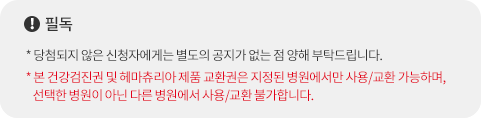
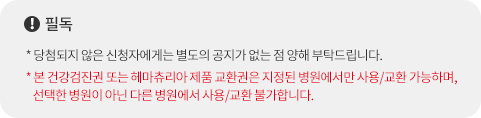
0728 수정 - 문안, 이미지, 수의사님 영상 추가

Changed region(s): [[0.2183, 0.5847, 0.9667, 0.7119]]

diff --git a/request.php b/request.php
@@ -50,7 +50,7 @@
                         </span>
                     </div>
                     <div class="subject">
-                        <b><?=$cat_info['mb_cat_name']?>의 건강검진권 신청하기</b>
+                        <b><?=$cat_info['mb_cat_name']?>의 건강 경품 신청하기</b>
                     </div>
                 </div>
                 <div class="location-selector">
@@ -176,7 +176,7 @@
                         <div class="title-block">
                             <img src="./images/project_logo.svg" alt="고양이 주치의 프로젝트" class="project-logo">
                             <p class="sub">
-                                반려묘의 더 건강한 삶을 위한<br>건강검진권과 혈뇨검출기가 신청되었습니다! 
+                                반려묘의 더 건강한 삶을 위한<br>건강 경품이 신청되었습니다! 
                             </p>
                         </div>
                         <div class="date-block">
@@ -199,11 +199,11 @@
                                 <li>
                                     <img src="./images/benefit_img_02.png" alt="혈뇨검출 체외진단기 헤마츄리아 디텍션 50명">
                                     <h5>혈뇨검출 체외진단기</h5>
-                                    <p>헤마츄리아 디텍션</p>
+                                    <p>헤마츄리아 디텍션<br> 제품 교환권</p>
                                 </li>
                             </ul>
                             <div class="noti-img">
-                                <img src="./images/section_03_notice.png" alt="필독! 당첨되지 않은 신청자에게는 별도의 공지가 없는 점 양해 부탁드립니다. 본 건강검진권은 지정된 병원에서만 사용이 가능하며, 선택한 병원이 아닌 다른 병원에서는 사용이 불가합니다.">
+                                <img src="./images/section_03_notice.png?ver=200728" alt="필독! 당첨되지 않은 신청자에게는 별도의 공지가 없는 점 양해 부탁드립니다. 본 건강검진권 또는 헤마츄리아 제품 교환권은 지정된 병원에서만 사용/교환 가능하며, 선택한 병원이 아닌 다른 병원에서는 사용/교환이 불가합니다.">
                             </div>
                         </div>
                         <button type="button" class="type-01" id="btn-complete">확인</button>

diff --git a/m/request.php b/m/request.php
@@ -26,7 +26,7 @@
                     </span>
                 </div>
                 <div class="subject">
-                    <b><?=$cat_info['mb_cat_name']?>의 건강검진권 신청하기</b>
+                    <b><?=$cat_info['mb_cat_name']?>의 건강 경품 신청하기</b>
                 </div>
             </div>
             <div class="location-selector">
@@ -136,7 +136,7 @@
                     <div class="title-block">
                         <img src="./images/project_logo.svg" alt="고양이 주치의 프로젝트" class="project-logo">
                         <p class="sub">
-                            반려묘의 더 건강한 삶을 위한<br>건강검진권과 혈뇨검출기가<br>신청되었습니다! 
+                            반려묘의 더 건강한 삶을 위한<br>건강 경품이 신청되었습니다! 
                         </p>
                     </div>
                     <div class="date-block">
@@ -159,11 +159,11 @@
                             <li>
                                 <img src="./images/benefit_img_02.png" alt="혈뇨검출 체외진단기 헤마츄리아 디텍션 50명">
                                 <h5>혈뇨검출 체외진단기</h5>
-                                <p>헤마츄리아 디텍션</p>
+                                <p>헤마츄리아 디텍션<br>제품 교환권</p>
                             </li>
                         </ul>
                         <div class="noti-img">
-                            <img src="./images/section_03_notice.png" alt="필독! 당첨되지 않은 신청자에게는 별도의 공지가 없는 점 양해 부탁드립니다. 본 건강검진권은 지정된 병원에서만 사용이 가능하며, 선택한 병원이 아닌 다른 병원에서는 사용이 불가합니다.">
+                            <img src="./images/section_03_notice.png?ver=200728" alt="필독! 당첨되지 않은 신청자에게는 별도의 공지가 없는 점 양해 부탁드립니다. 본 건강검진권 또는 헤마츄리아 제품 교환권은 지정된 병원에서만 사용/교환 가능하며, 선택한 병원이 아닌 다른 병원에서는 사용/교환이 불가합니다.">
                         </div>
                     </div>
                     <button type="button" class="type-01" id="btn-complete">확인</button>

diff --git a/index.php b/index.php
@@ -134,10 +134,10 @@
                         </span>
                     </p>
                     <p class="sub">
-                        아픈 것을 잘 드러내지 않는 반려묘이기에 세심하게 살펴주는 가장 가까운 주치의로서의 <em>관찰 능력</em>은 필수!<br>
-                        <b>나의 주치의력을 테스트 해 보고 반려묘의 신호는 물론 10만원 상당의 건강검진권 당첨의 기회도 잡으세요!</b>
-                        <!-- 아파도 숨기는 반려묘, 세심한 <em>관찰 능력</em>은 필수!<br>
-                        <b>나의 주치의력 테스트하고, 건강 경품 당첨 기회 잡자!</b> -->
+                        <!-- 아픈 것을 잘 드러내지 않는 반려묘이기에 세심하게 살펴주는 가장 가까운 주치의로서의 <em>관찰 능력</em>은 필수!<br>
+                        <b>나의 주치의력을 테스트 해 보고 반려묘의 신호는 물론 10만원 상당의 건강검진권 당첨의 기회도 잡으세요!</b> -->
+                        아파도 숨기는 반려묘, 세심한 <em>관찰 능력</em>은 필수!<br>
+                        <b>나의 주치의력 테스트하고, 건강 경품 당첨 기회 잡자!</b>
                     </p>
                     <div class="date-block">
                         <p>참여기간 : 2020. 7. 27 ~ 9. 4&nbsp;&nbsp;&nbsp;/&nbsp;&nbsp;&nbsp;당첨자 발표 : 2020. 9. 14</p>

diff --git a/m/index.php b/m/index.php
@@ -131,12 +131,12 @@
                         </span>
                     </p>
                     <p class="sub">
-                        아픈 것을 잘 드러내지 않는 반려묘이기에<br>
+                        <!-- 아픈 것을 잘 드러내지 않는 반려묘이기에<br>
                         세심하게 살펴주는 가장 가까운 주치의로서의 <em>관찰 능력</em>은 필수!<br>
                         <b>나의 주치의력을 테스트 해 보고 반려묘의 신호는 물론<br>
-                        10만원 상당의 건강검진권 당첨의 기회도 잡으세요!</b>
-                        <!-- 아파도 숨기는 반려묘, 세심한 <em>관찰 능력</em>은 필수!<br>
-                        <b>나의 주치의력 테스트하고, 건강 경품 당첨 기회 잡자!</b> -->
+                        10만원 상당의 건강검진권 당첨의 기회도 잡으세요!</b> -->
+                        아파도 숨기는 반려묘, 세심한 <em>관찰 능력</em>은 필수!<br>
+                        <b>나의 주치의력 테스트하고, 건강 경품 당첨 기회 잡자!</b>
                     </p>
                 </div>
                 <div class="date-block">

diff --git a/m/result.php b/m/result.php
@@ -75,7 +75,7 @@
                 <p>* 결과는 보호자가 인식하는 반려묘 신호 정도에 따라 상이할 수 있습니다.<br>본 테스트는 참고용이며, 수의사 선생님의 소견이나 수의학적 치료를 대체할 수 없습니다.</p>
             </div>
             <!-- <img src="./images/result_notice.png" alt="* 결과는 보호자가 인식하는 반려묘 신호 정도에 따라 상이할 수 있습니다. 본 테스트는 참고용이며, 수의사 선생님의 소견이나 수의학적 치료를 대체할 수 없습니다." class="noti-msg"> -->
-            <a href="./request.php?serial=<?php echo $serial?>" class="type-01 go-next" onclick="gtag('event', '이벤트참여', {'event_category': '결과페이지', 'event_label': '이벤트참여_결과'});">건강검진권 신청하기</a>
+            <a href="./request.php?serial=<?php echo $serial?>" class="type-01 go-next" onclick="gtag('event', '이벤트참여', {'event_category': '결과페이지', 'event_label': '이벤트참여_결과'});">건강 경품 신청하기</a>
         </div>
         <div id="footer">
             <span class="for-a11y">Copyright © 2020. ROYAL CANIN all rights reserved.</span>

diff --git a/result.php b/result.php
@@ -99,7 +99,7 @@
                 <div class="notice-block">
                     <p>* 결과는 보호자가 인식하는 반려묘 신호 정도에 따라 상이할 수 있습니다. 본 테스트는 참고용이며, 수의사 선생님의 소견이나 수의학적 치료를 대체할 수 없습니다.</p>
                 </div>
-                <a href="./request.php?serial=<?php echo $serial?>" class="type-01 go-next" onclick="gtag('event', '이벤트참여', {'event_category': '결과페이지', 'event_label': '이벤트참여_결과'});">건강검진권 신청하기</a>
+                <a href="./request.php?serial=<?php echo $serial?>" class="type-01 go-next" onclick="gtag('event', '이벤트참여', {'event_category': '결과페이지', 'event_label': '이벤트참여_결과'});">건강 경품 신청하기</a>
             </div>
         </div>
         <div id="footer">
